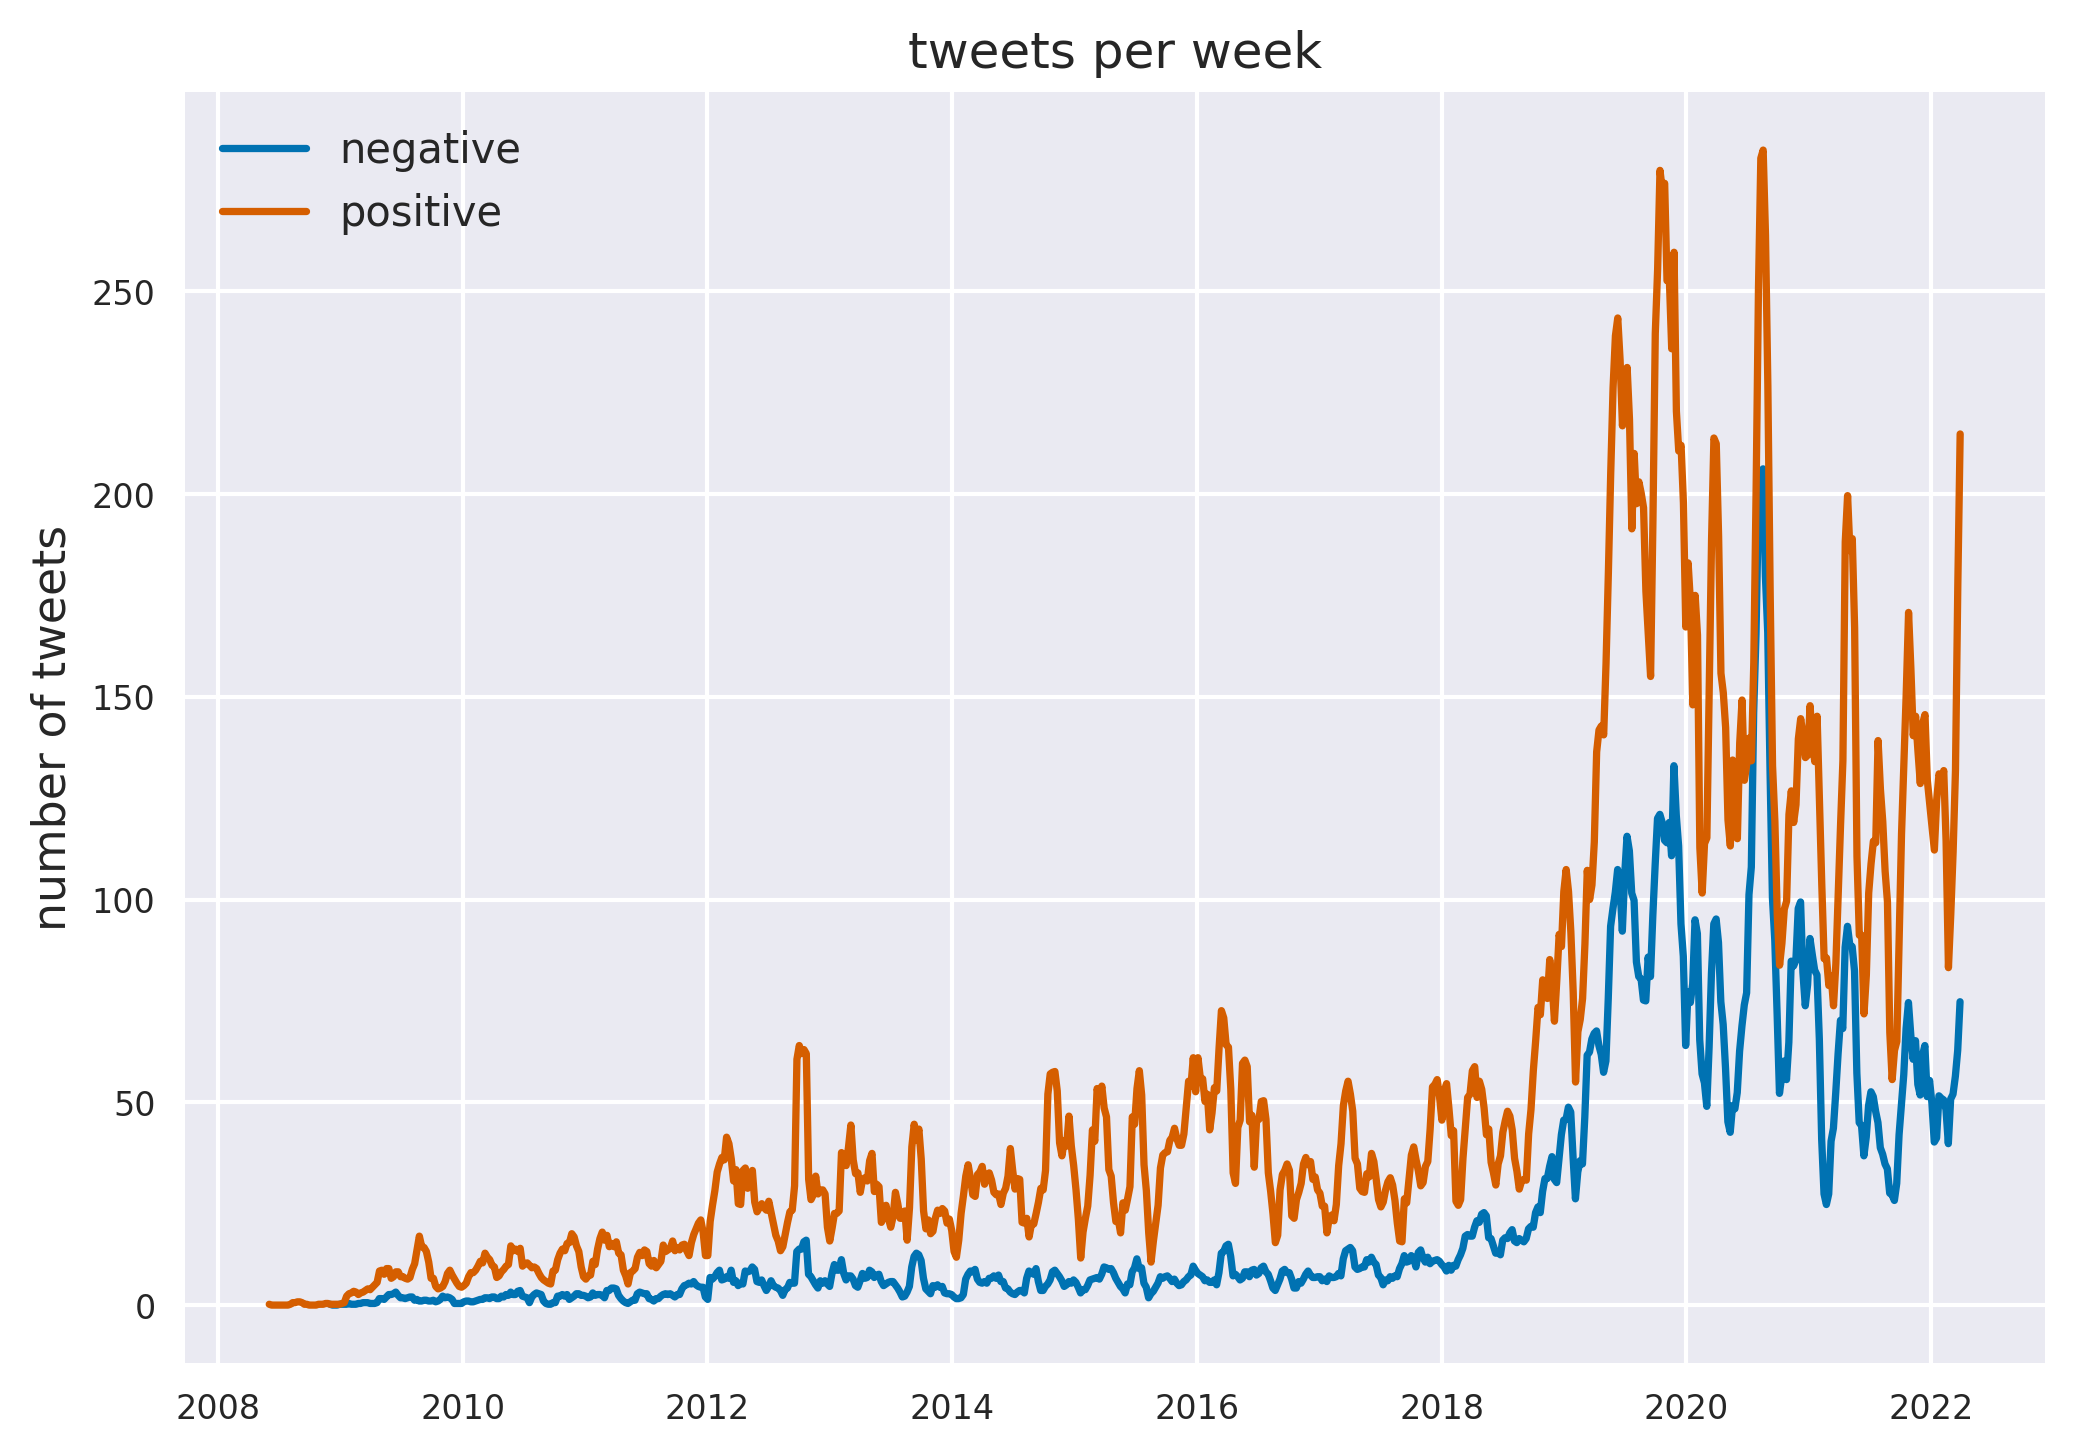
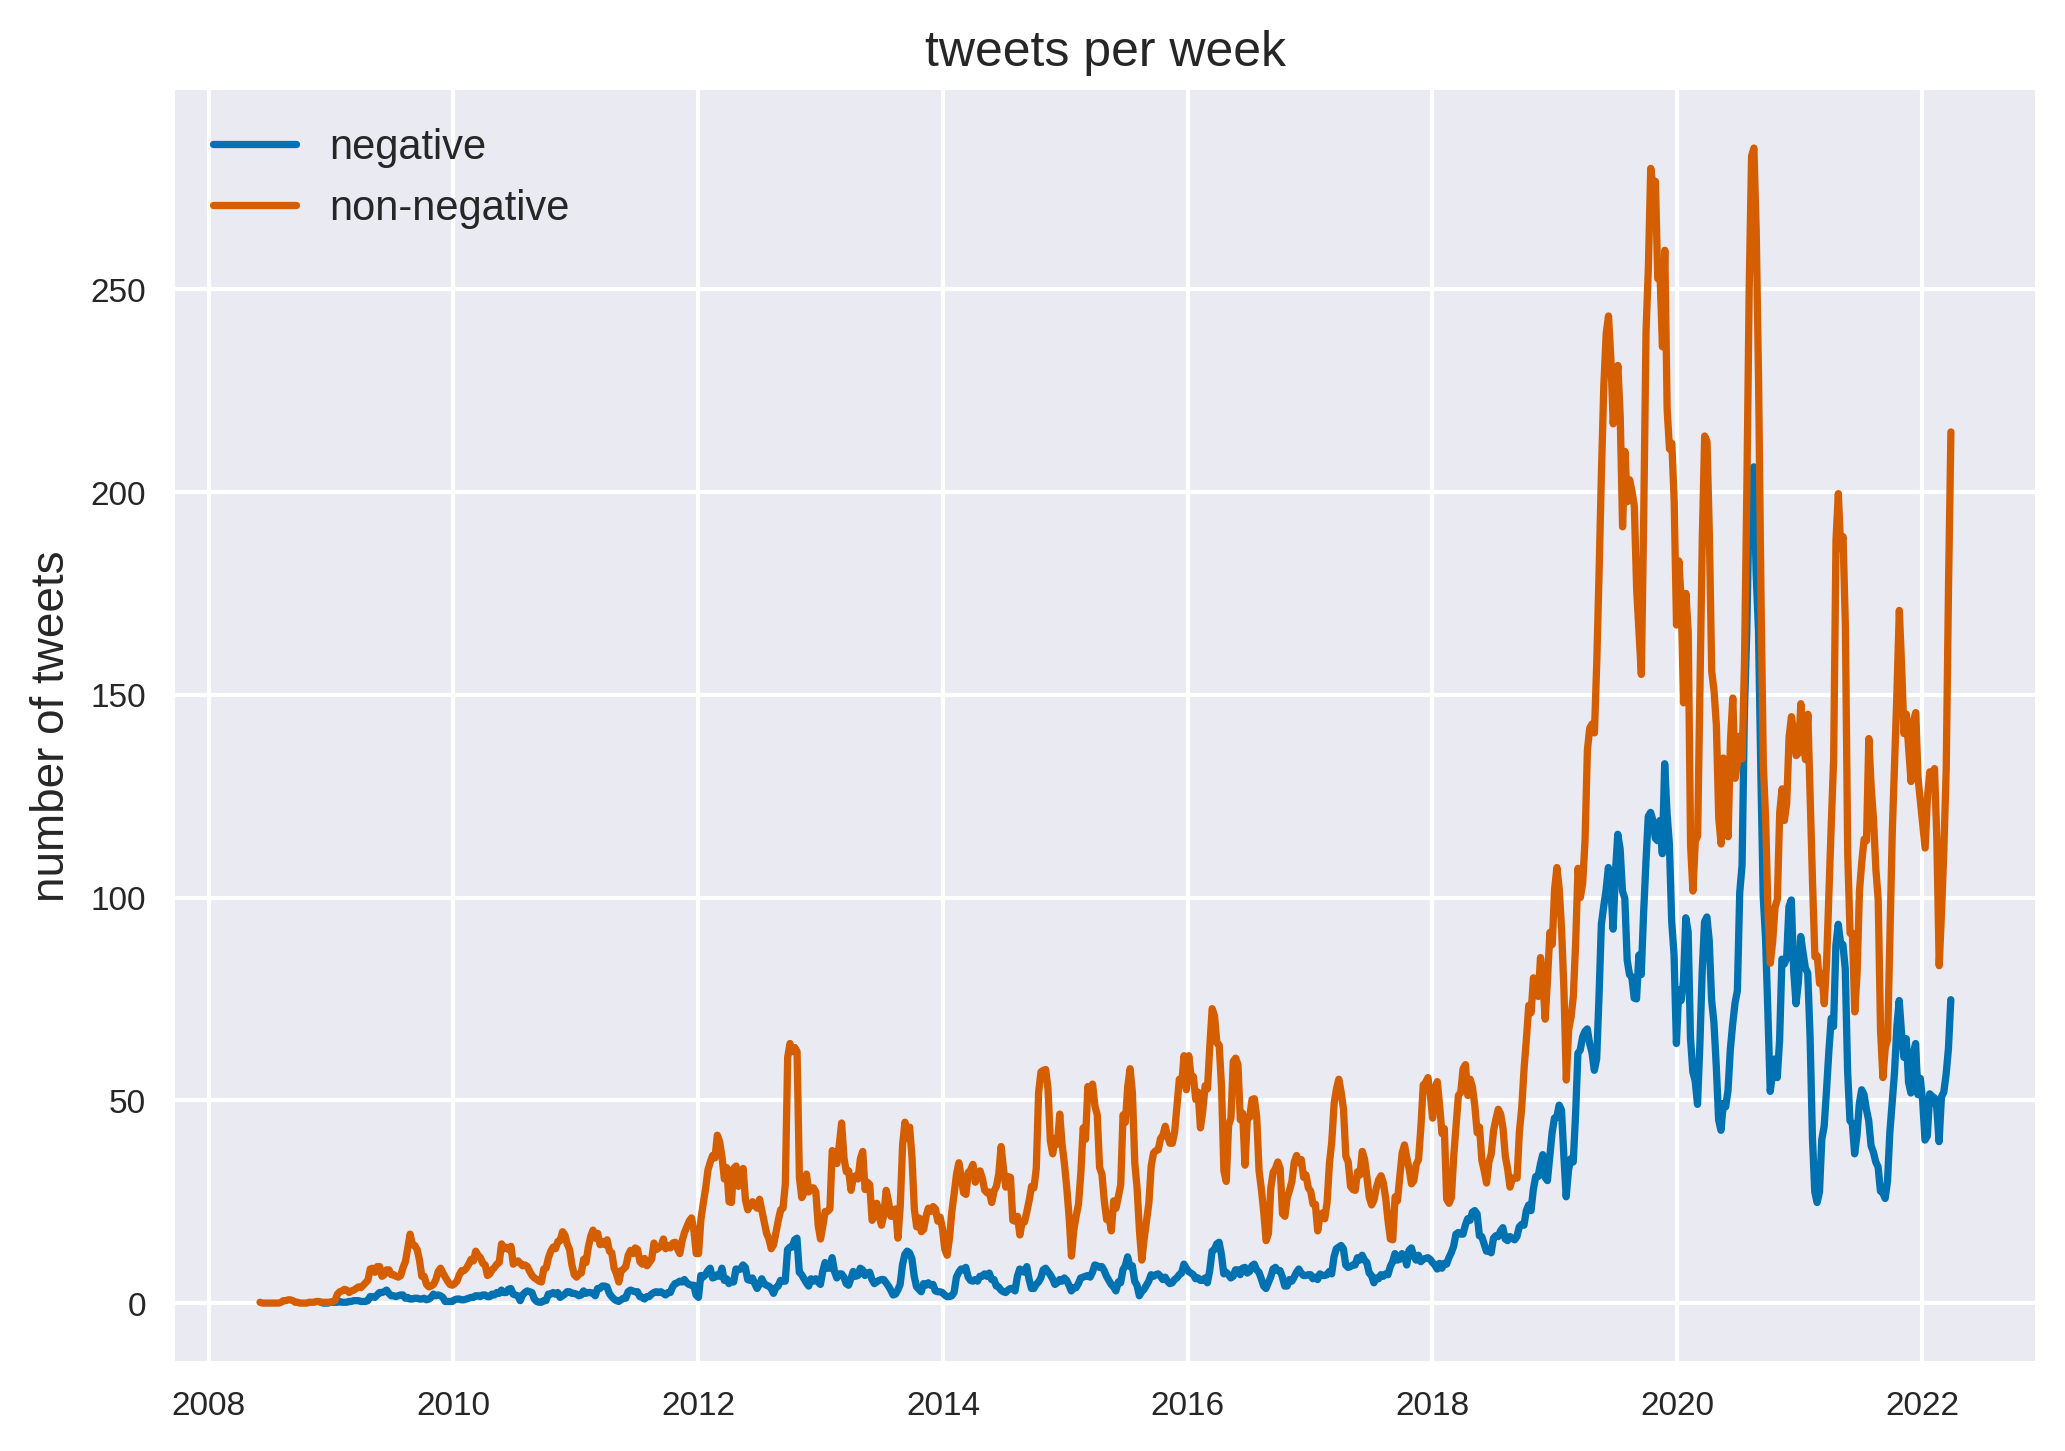
changed positive to non-negative

diff --git a/fig/sentiment_over_time.py b/fig/sentiment_over_time.py
@@ -104,7 +104,7 @@ flat1 = np.convolve(flat1, np.ones(N)/N, mode = 'valid')
 print(np.shape(flat0))
 
 ax.plot(week_nums0, flat0[:len(week_nums0)], label='negative', color = blue)
-ax.plot(week_nums1, flat1[:len(week_nums1)], label='positive', color = vermilion)
+ax.plot(week_nums1, flat1[:len(week_nums1)], label='non-negative', color = vermilion)
 plt.ylabel('number of tweets')
 plt.title('tweets per week')
 plt.legend()
